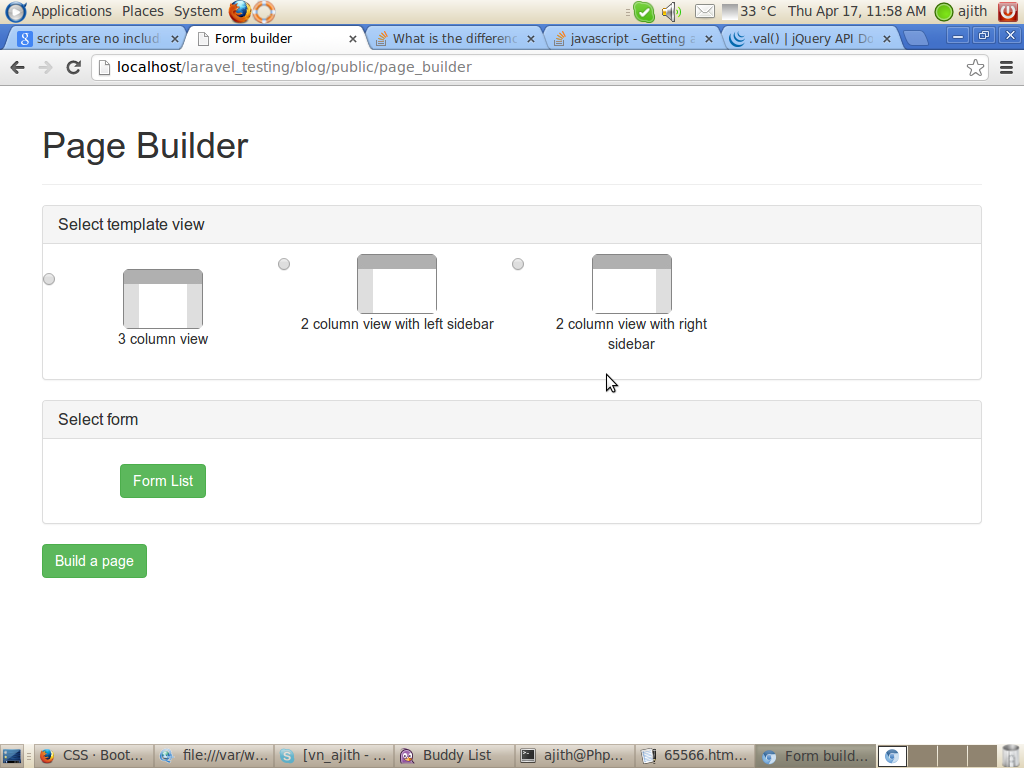
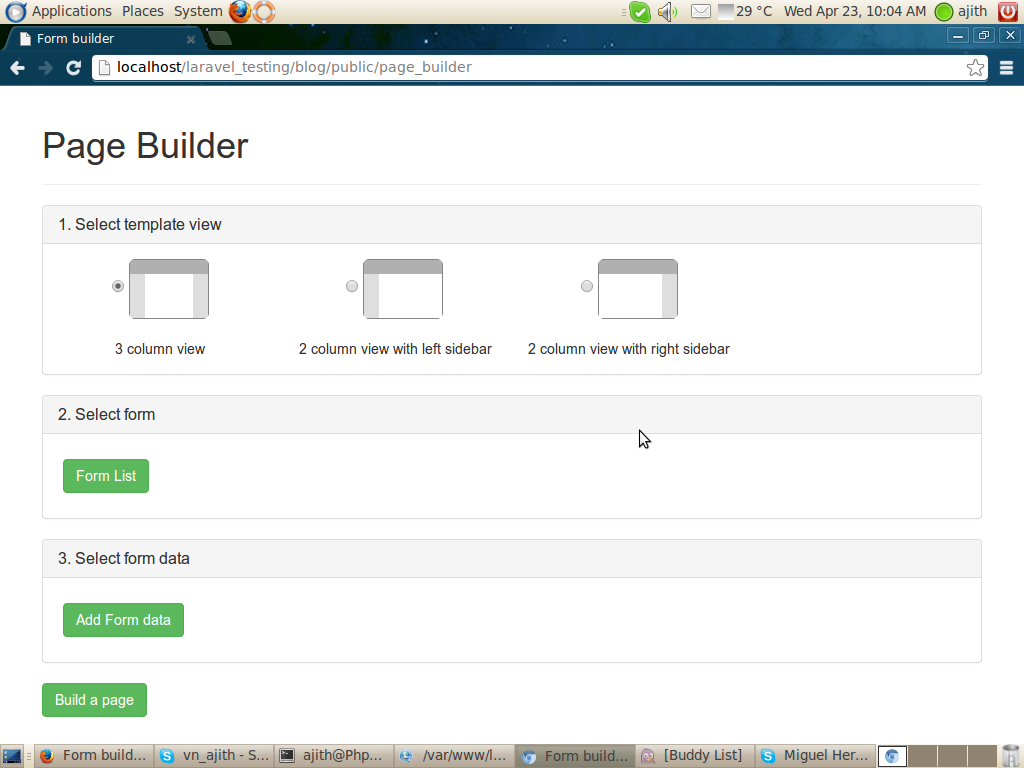
New screenshots added

diff --git a/public/assets/js/page_builder.js b/public/assets/js/page_builder.js
@@ -2,6 +2,7 @@ $(document).ready(function(){
 	$('#select_form_data').hide();
 	var page_settings={};
 	page_settings["settings"] = {};
+	page_settings["settings"]["form_data"] = {};
  	$("input[id^='view_type']").click(function(){
 		var str="";
 		
@@ -63,7 +64,7 @@ $(document).ready(function(){
 		var id = $('#form_selector').children(":selected").attr("id");	
 		var value_radio = $( "input:radio[name='view_type']:checked" ).val();
 
-		page_settings["settings"]["form_data"] = {};
+		
 		$.ajax({
 					url: "/laravel_testing/blog/public/generate_form_data_table",
 					type:"POST",
@@ -87,9 +88,11 @@ $(document).ready(function(){
 		{
 			var id = this.id;
 			page_settings["settings"]["form_data"][form_id]["elements"]["id"] = id ;
+			alert("#pos_data_"+form_id+"_"+id)
 			page_settings["settings"]["form_data"][form_id]["elements"]["position"] = $("#pos_data_"+form_id+"_"+id).val();
 		});	
 		alert("data added");
+		$("#myModal_2").modal("toggle");
 			
 	});
 	

diff --git a/app/views/Forms/page_builder.blade.php b/app/views/Forms/page_builder.blade.php
@@ -194,7 +194,7 @@
 								</select>
 							<input type="button" id="select_form" value="Select form" class="btn btn-success">
 							<div id="form_data_display"></div>
-							<input type="button"  id="select_form_data" value="Add data " class="btn btn-success">
+							
 						
 						@endif
 					
@@ -206,8 +206,8 @@
 
       </div>
       <div class="modal-footer">
-        <button type="button" class="btn btn-default" data-dismiss="modal">Close</button>
-        <button type="button" class="btn btn-primary" id="1select_form_save_">Select forms</button>
+<!--         <button type="button" class="btn btn-default" data-dismiss="modal">Close</button> -->
+        <input type="button"  id="select_form_data" value="Add data " class="btn btn-success">
       </div>
     </div>
   </div>
